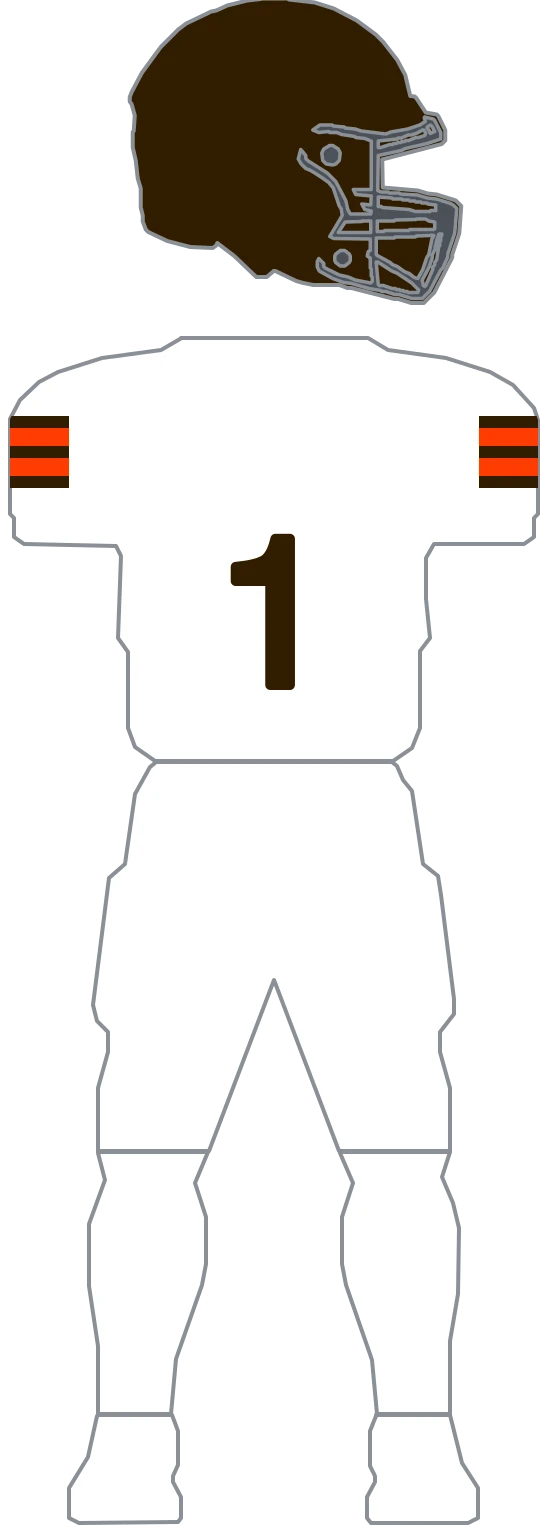
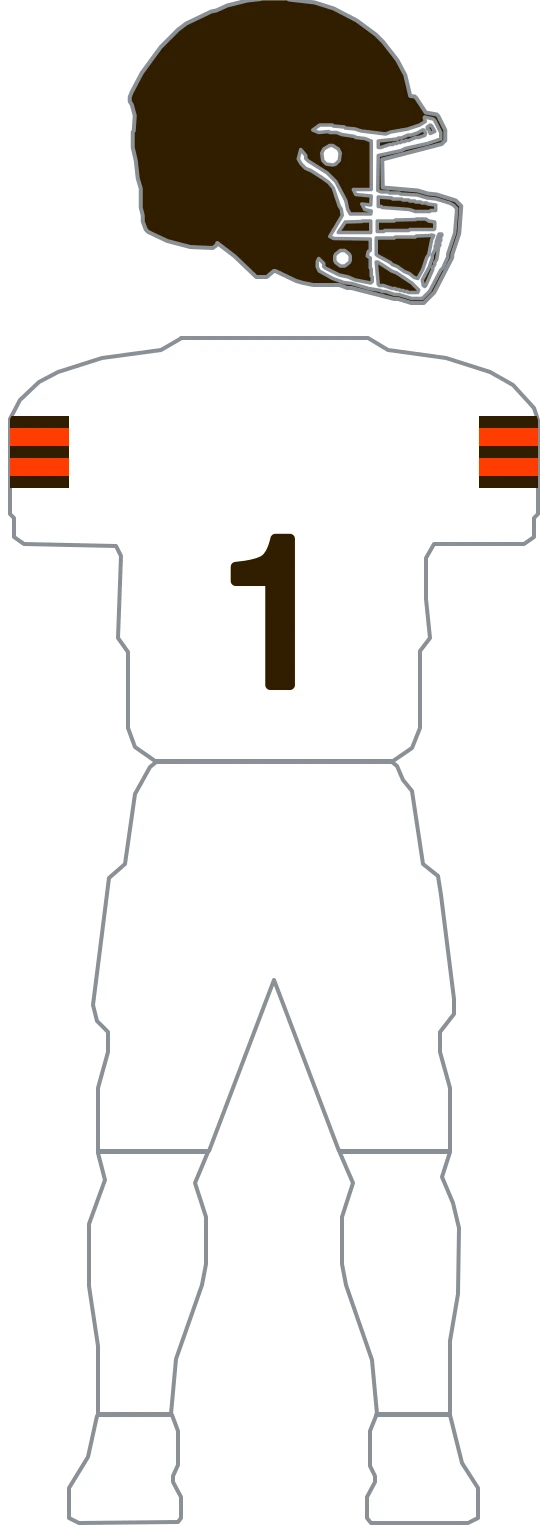
feat(uniforms): migrate Browns to composable parts and set its white facemask (#688)
Cleveland's construction is defined by what it does NOT have: the shell
carries no logo and no center stripe, the white pants carry no stripe, the
V-collar carries no trim, and the numerals carry no keyline. Everything the
uniform says, it says with one five-band stripe stack at the end of each
sleeve. The three kits combine two helmets (the bare orange shell home/away,
and the 1946 throwback's brown shell) and one shared white jersey — away and
the 1946 both wear a white body with the stack banded brown-over-orange — plus
one pair of white pants for all three. Parts express that: 2 helmets, 2
jerseys, 1 pants, matching the measured target.

The migration's parity gate proved all 9 browns rasters (3 kits x 2 variants)
byte-identical against the flat definition, then the flat definition and its
builder helpers were deleted and the team removed from MIGRATED, per the
one-time-proof lifecycle (depth#660).

Facemask follows the parts migration per phase order: both Browns shells wear
the SF2BD-SW-SP white mask (named sources). Only the three -full rasters move,
each change confined to its helmet region.

Changed region(s): [[0.5768, 0.0612, 0.8196, 0.1837], [0.5464, 0.0919, 0.6071, 0.1225], [0.7286, 0.1837, 0.7589, 0.2143]]

diff --git a/lib/uniforms/teams/browns.ts b/lib/uniforms/teams/browns.ts
@@ -1,105 +1,15 @@
-import type { ColorRef, TeamUniformDefinition, UniformLayer, UniformSurface } from './types';
-
-// Cleveland's three archived kits, redrawn from the Gridiron Uniform Database 2025 composite in
-// nfl-uniform-refs/browns (home is that sheet's row-1 figure 1, away its row-2 figure 1). Sleeve
-// paths use the outer 588-wide mannequin space; right paths mirror the left across the jersey
-// centerline x=294 (mirroredX = 588 - x).
-//
-// Cleveland's construction is defined by what it does NOT have, and the reference is unambiguous
-// on every one of these: the shell carries no logo and no center stripe (the club is the only one
-// in the league with a bare helmet), the white pants carry no stripe, the V-collar carries no
-// contrasting trim, and the numerals carry no keyline. Everything the uniform says, it says with
-// one five-band stripe stack at the end of each sleeve — so every kit strips almost the whole
-// generic model rather than recoloring it.
-//
-// Caveat on the 1946 throwback: it is NOT in the 2025 composite (Cleveland did not wear it that
-// season, and unlike the Seahawks/Broncos/Vikings throwbacks there is no era sheet for it either),
-// so its construction is inferred by recoloring the measured stripe set and its brown shell comes
-// from the 1946 club's documented leather helmet rather than from a reference. Treat the whole kit
-// as provisional until a 1946 reference is available.
+// Cleveland's construction geometry — the stripe-stack bounds and sleeve x-ranges, and the
+// construction color literal only. The composable parts definition that consumes them lives in
+// ./browns.parts.ts; the former flat BROWNS_UNIFORMS was deleted in the migration that proved
+// parts render byte-identically (see parts-parity.test.ts for the one-time gate).
 
 // White is a literal on the home kit, not a token. Cleveland's ESPN feed pairs brown with orange,
-// so `toTeamColors` gives the home kit accent === secondary === orange and no white token exists —
-// resolving the stripe bands or the numerals from `accent` would paint them orange-on-orange.
+// so `toTeamColors` gives the home kit accent === secondary === orange and no white token exists.
 export const BROWNS_WHITE = '#FFFFFF';
 
-// The sleeve stripe stack: five alternating bands at the very end of each sleeve, measured on the
-// home figure (jersey top y=137, sleeve hem y=201, figure center x=106.5, so scaleY = 191/64 and
-// scaleX = 264/84.5). Reference y 163/167/173/177/183/187 maps to the boundaries below; the away
-// figure carries the identical stack 510px lower with brown in white's place, so one factory
-// serves every kit. Reference x 25-41 maps to 39-89, extended outward to x=30 so the jersey clip
-// trims the stack flush at the sleeve edge.
+// The sleeve stripe stack: five alternating bands at the very end of each sleeve. Reference y
+// 163/167/173/177/183/187 maps to the boundaries below; the away figure carries the identical
+// stack 510px lower with brown in white's place. Extended outward to x=30 for a flush clip.
 export const BROWNS_STRIPE_BOUNDS = [461, 473, 491, 503, 521, 533];
 export const BROWNS_SLEEVE_X_LEFT = [30, 89];
 export const BROWNS_SLEEVE_X_RIGHT = [499, 558];
-
-const GENERIC_STRIPPED = [
-  'generic-helmet-stripe',
-  'generic-sleeve-yoke-left',
-  'generic-sleeve-yoke-right',
-  'generic-sleeve-stripe-left',
-  'generic-sleeve-stripe-right',
-  'generic-collar',
-  'generic-pants-stripe-left',
-  'generic-pants-stripe-right',
-];
-
-// One stack, three kits. Only which color takes the outer/middle/inner bands and which fills the
-// two between them changes: white-on-orange at home, brown-on-orange on the road.
-function sleeveStripes(band: ColorRef, gap: ColorRef): UniformLayer[] {
-  const out: UniformLayer[] = [];
-  const sides: [UniformSurface, number[]][] = [
-    ['sleeve-left', BROWNS_SLEEVE_X_LEFT],
-    ['sleeve-right', BROWNS_SLEEVE_X_RIGHT],
-  ];
-
-  for (let i = 0; i < BROWNS_STRIPE_BOUNDS.length - 1; i += 1) {
-    const top = BROWNS_STRIPE_BOUNDS[i];
-    const bottom = BROWNS_STRIPE_BOUNDS[i + 1];
-    for (const [surface, [x0, x1]] of sides) {
-      const side = surface === 'sleeve-left' ? 'left' : 'right';
-      out.push({
-        id: `browns-sleeve-band-${i}-${side}`,
-        surface,
-        d: `M${x0},${top} H${x1} V${bottom} H${x0} Z`,
-        clip: true,
-        kind: 'fill',
-        fill: i % 2 === 0 ? band : gap,
-      });
-    }
-  }
-
-  return out;
-}
-
-export const BROWNS_UNIFORMS: TeamUniformDefinition = {
-  teamId: 'browns',
-  kits: {
-    // Brown body over white pants under the bare orange shell — the reference's primary combo.
-    // The numerals are plain white on brown in the reference, with no keyline of any color, so the
-    // outline restates the fill at a width that only thickens the glyph.
-    home: {
-      helmetColor: 'secondary',
-      pantsColor: BROWNS_WHITE,
-      removeLayerIds: GENERIC_STRIPPED,
-      layers: sleeveStripes(BROWNS_WHITE, 'secondary'),
-      number: { fill: BROWNS_WHITE, outline: BROWNS_WHITE, outlineWidth: 10 },
-    },
-    // White body, white pants, same orange shell. On white the bands have to become brown, so the
-    // stack swaps which token bands and which fills between them.
-    away: {
-      helmetColor: 'accent',
-      removeLayerIds: GENERIC_STRIPPED,
-      layers: sleeveStripes('secondary', 'accent'),
-      number: { fill: 'secondary', outline: 'secondary', outlineWidth: 10 },
-    },
-    // 1946 throwback — inferred, not measured (see the header note). White body and pants under a
-    // brown shell, with the stripe set banded brown over orange.
-    '1946-throwback': {
-      helmetColor: 'accent',
-      removeLayerIds: GENERIC_STRIPPED,
-      layers: sleeveStripes('accent', 'secondary'),
-      number: { fill: 'accent', outline: 'accent', outlineWidth: 10 },
-    },
-  },
-};

diff --git a/lib/uniforms/teams/browns.parts.ts b/lib/uniforms/teams/browns.parts.ts
@@ -1,0 +1,103 @@
+// Cleveland authored as composable parts. Geometry is imported unchanged from browns.ts — this
+// file only restates WHICH parts each kit combines, and names every color from the team palette
+// instead of the kit row's shifting primary/secondary/accent.
+//
+// Cleveland's construction is defined by what it does NOT have: the shell carries no logo and no
+// center stripe, the white pants carry no stripe, the V-collar carries no trim, and the numerals
+// carry no keyline. Everything the uniform says, it says with one five-band stripe stack at the
+// end of each sleeve. The three kits combine two helmets (the bare orange shell home/away, and
+// the 1946 throwback's brown shell) and one shared white jersey — away and the 1946 both wear a
+// white body with the stack banded brown-over-orange — plus one pair of white pants for all three.
+
+import { BROWNS_SLEEVE_X_LEFT, BROWNS_SLEEVE_X_RIGHT, BROWNS_STRIPE_BOUNDS } from './browns';
+import { compileParts, type PartLayer, type TeamPartsDefinition, type UniformPart } from './parts';
+import type { UniformSurface } from './types';
+
+// The five-band stripe stack over the end of each sleeve. One construction, three colorways; the
+// codex calls the outer/middle/inner bands and the two between them.
+function sleeveStripes(band: string, gap: string): PartLayer[] {
+  const out: PartLayer[] = [];
+  const sides: [UniformSurface, number[]][] = [
+    ['sleeve-left', BROWNS_SLEEVE_X_LEFT],
+    ['sleeve-right', BROWNS_SLEEVE_X_RIGHT],
+  ];
+  for (let i = 0; i < BROWNS_STRIPE_BOUNDS.length - 1; i += 1) {
+    const top = BROWNS_STRIPE_BOUNDS[i];
+    const bottom = BROWNS_STRIPE_BOUNDS[i + 1];
+    for (const [surface, [x0, x1]] of sides) {
+      const side = surface === 'sleeve-left' ? 'left' : 'right';
+      out.push({
+        id: `browns-sleeve-band-${i}-${side}`,
+        surface,
+        d: `M${x0},${top} H${x1} V${bottom} H${x0} Z`,
+        clip: true,
+        kind: 'fill',
+        fill: i % 2 === 0 ? band : gap,
+      });
+    }
+  }
+  return out;
+}
+
+// The bare orange shell — the club is the only one in the league with a bare helmet — shared by
+// home and away.
+//
+// White cage. The bare orange shell wears the SF2BD-SW-SP white mask (named sources). The white
+// cage reads cleanly against the orange shell.
+const HELMET_ORANGE: UniformPart = {
+  base: 'orange',
+  facemask: 'white',
+  layers: [],
+};
+
+// The 1946 throwback's brown shell (the era's documented leather helmet), inferred — NOT in the
+// 2025 composite, provisional (see browns.ts).
+//
+// White cage. The modern reproduction of the 1946 shell wears the same SF2BD-SW-SP white mask.
+const HELMET_BROWN: UniformPart = {
+  base: 'brown',
+  facemask: 'white',
+  layers: [],
+};
+
+// Home jersey: brown body, white-over-orange stripe stack, plain white numerals (no keyline).
+const JERSEY_BROWN: UniformPart = {
+  base: 'brown',
+  layers: sleeveStripes('white', 'orange'),
+  number: { fill: 'white', outline: 'white', outlineWidth: 10 },
+};
+
+// Away + 1946 jersey: white body, brown-over-orange stripe stack, plain brown numerals.
+const JERSEY_WHITE: UniformPart = {
+  base: 'white',
+  layers: sleeveStripes('brown', 'orange'),
+  number: { fill: 'brown', outline: 'brown', outlineWidth: 10 },
+};
+
+// Plain white pants — one pair shared by all three kits.
+const PANTS_WHITE: UniformPart = { base: 'white', layers: [] };
+
+export const BROWNS_PARTS: TeamPartsDefinition = {
+  teamId: 'browns',
+  // Jersey hexes from the curated rows (teamcolorcodes). Brown and orange are the two physical
+  // colors carried in different primary/secondary/accent slots per row; white is the pants/numerals
+  // literal (no white token on the home row).
+  palette: {
+    brown: '#311D00',
+    orange: '#FF3C00',
+    white: '#FFFFFF',
+  },
+  helmets: { orange: HELMET_ORANGE, brown: HELMET_BROWN },
+  jerseys: {
+    brown: JERSEY_BROWN,
+    white: JERSEY_WHITE,
+  },
+  pants: { white: PANTS_WHITE },
+  kits: {
+    home: { helmet: 'orange', jersey: 'brown', pants: 'white' },
+    away: { helmet: 'orange', jersey: 'white', pants: 'white' },
+    '1946-throwback': { helmet: 'brown', jersey: 'white', pants: 'white' },
+  },
+};
+
+export const BROWNS_UNIFORMS_FROM_PARTS = compileParts(BROWNS_PARTS);

diff --git a/lib/uniforms/teams/index.ts b/lib/uniforms/teams/index.ts
@@ -3,7 +3,7 @@ import { BENGALS_UNIFORMS_FROM_PARTS } from './bengals.parts';
 
 import { BILLS_UNIFORMS_FROM_PARTS } from './bills.parts';
 import { BRONCOS_UNIFORMS_FROM_PARTS } from './broncos.parts';
-import { BROWNS_UNIFORMS } from './browns';
+import { BROWNS_UNIFORMS_FROM_PARTS } from './browns.parts';
 import { BUCCANEERS_UNIFORMS } from './buccaneers';
 import { CARDINALS_UNIFORMS } from './cardinals';
 import { CHARGERS_UNIFORMS } from './chargers';
@@ -42,7 +42,7 @@ const DEFINITIONS: Readonly<Partial<Record<string, TeamUniformDefinition>>> = {
   bengals: BENGALS_UNIFORMS_FROM_PARTS,
   bills: BILLS_UNIFORMS_FROM_PARTS,
   broncos: BRONCOS_UNIFORMS_FROM_PARTS,
-  browns: BROWNS_UNIFORMS,
+  browns: BROWNS_UNIFORMS_FROM_PARTS,
   buccaneers: BUCCANEERS_UNIFORMS,
   cardinals: CARDINALS_UNIFORMS,
   chargers: CHARGERS_UNIFORMS,
